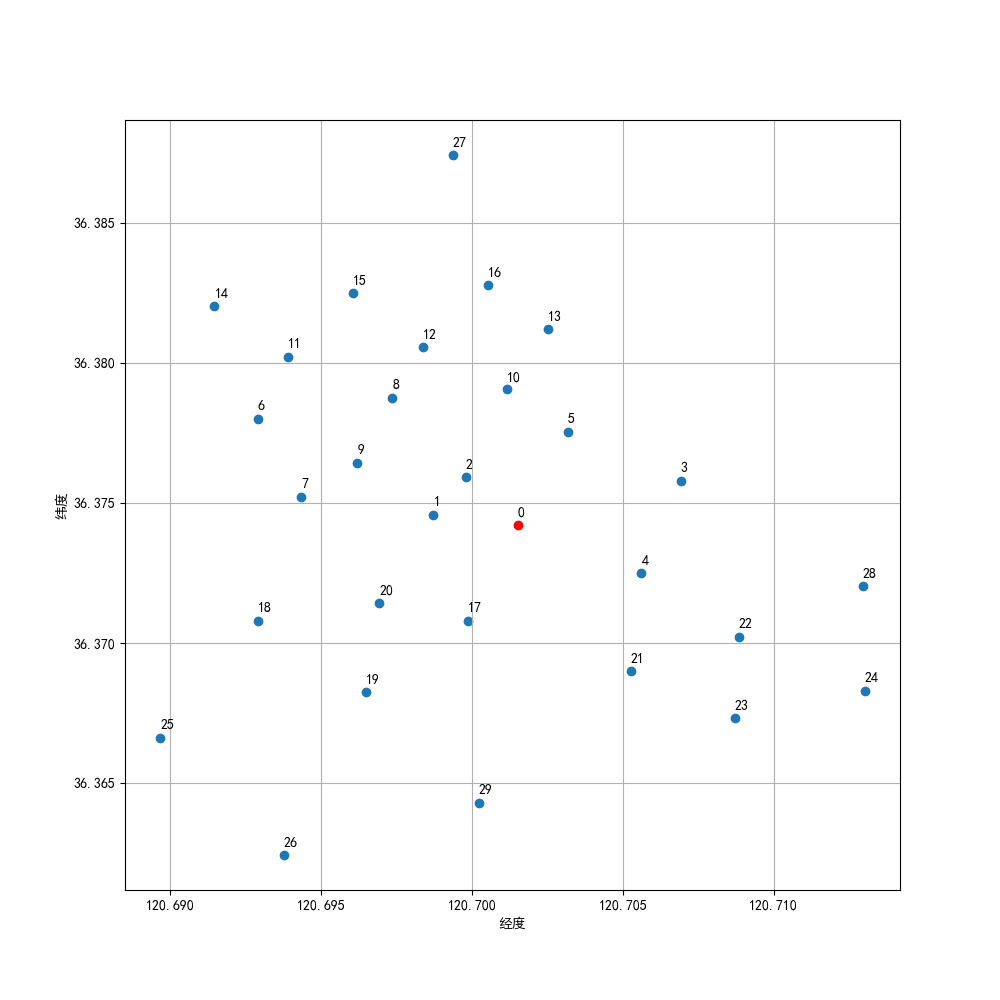
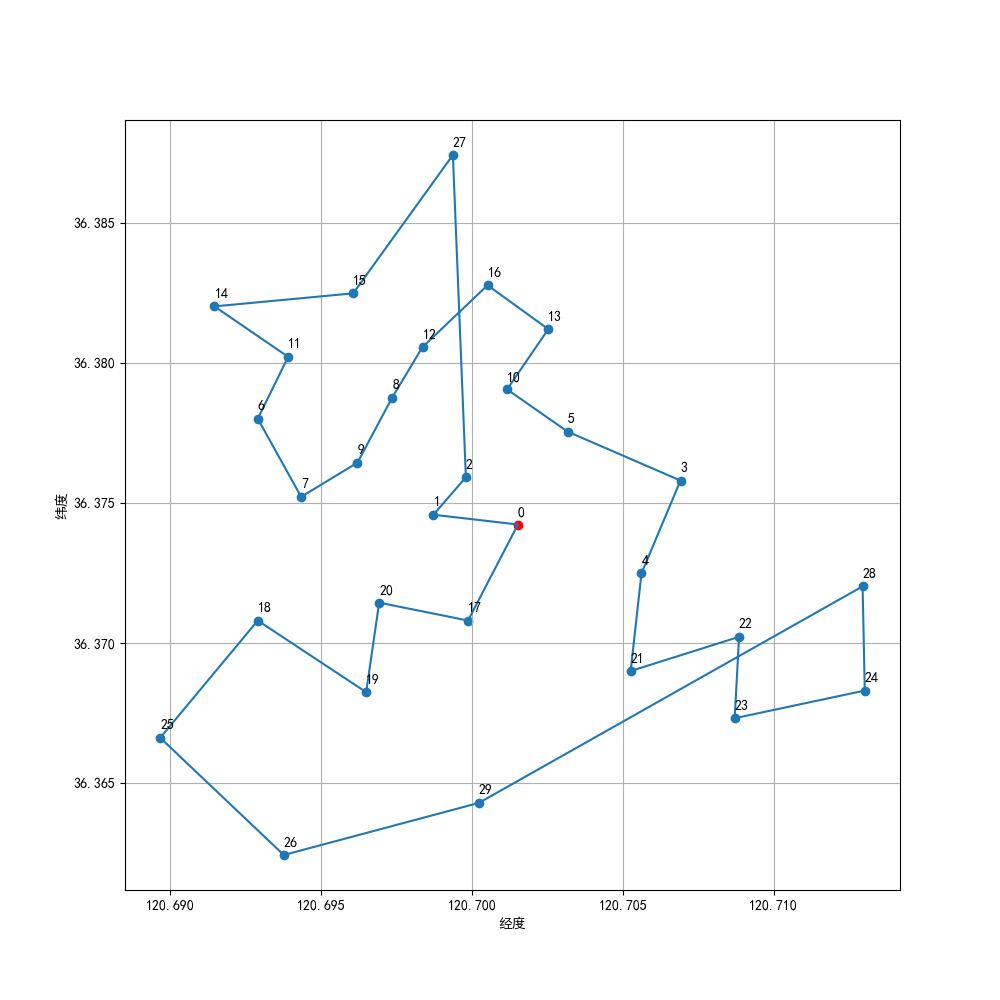
prim

diff --git a/Qi/Project/Sensor/code/Q1_analysis.py b/Qi/Project/Sensor/code/Q1_analysis.py
@@ -12,7 +12,9 @@ class analysis(object):
         #print(df.info)
         self.t_to_np()
         self.len_map()
-    
+        self.cal_prim()
+
+
     def scatter_xy(self):
         np_df = self.np_df
         plt.figure(figsize=(10,10))
@@ -24,6 +26,8 @@ class analysis(object):
             t_x, t_y = float(np_df[i,0]) + 0.000001, float(np_df[i, 1]) + 0.0003
             plt.annotate(str(i), xy = (np_df[i,0], np_df[i, 1]), xytext = (t_x, t_y))
 
+
+        plt.plot(np_df[self.path, 0], np_df[self.path, 1])
         #plt.colorbar()
         plt.grid(True)
         plt.xlabel('经度')
@@ -110,15 +114,35 @@ class analysis(object):
                     closedge[i]['lowcost'] = self.len_np[next_point, i]
             
             prior.append(next_point)
-        print(total_cos)
-        print(len(prior))
-        print(prior)
+        prior.append(start_site)
+        total_cos = total_cos + self.len_np[prior[-1], start_site]
+
+        return prior, total_cos
+        #print(total_cos)
+        #print(len(prior))
+        #print(prior)
+    
+    def cal_prim(self):
+        all_path = []
+        all_cos  = []
+        for i in range(self.len_np.shape[0]):
+            prior,total_cos = self.prim(i)
+            all_path.append(prior)
+            all_cos.append(total_cos)
         
+        all_path = np.array(all_path, dtype=np.int)
+        all_cos  = np.array(all_cos, dtype=np.float)
+        sm_start = np.argsort(all_cos)[0]
+        #print(sm_start)
+        path     = all_path[sm_start]
+        cos      = all_cos[sm_start]
 
-        
+        print(sorted(all_cos))
+        print('The lowest start site is', sm_start)
+        print('The path  is ',path)
+        print('The cost is', cos)
 
-
-
+        self.path = path
 
 
 
@@ -126,5 +150,5 @@ class analysis(object):
 if __name__ == '__main__':
     ana = analysis('data/Q1.xlsx')
     #ana.len_map()
-    ana.prim(1)
-    ana.prim(0)
+    ana.scatter_xy()
+    
